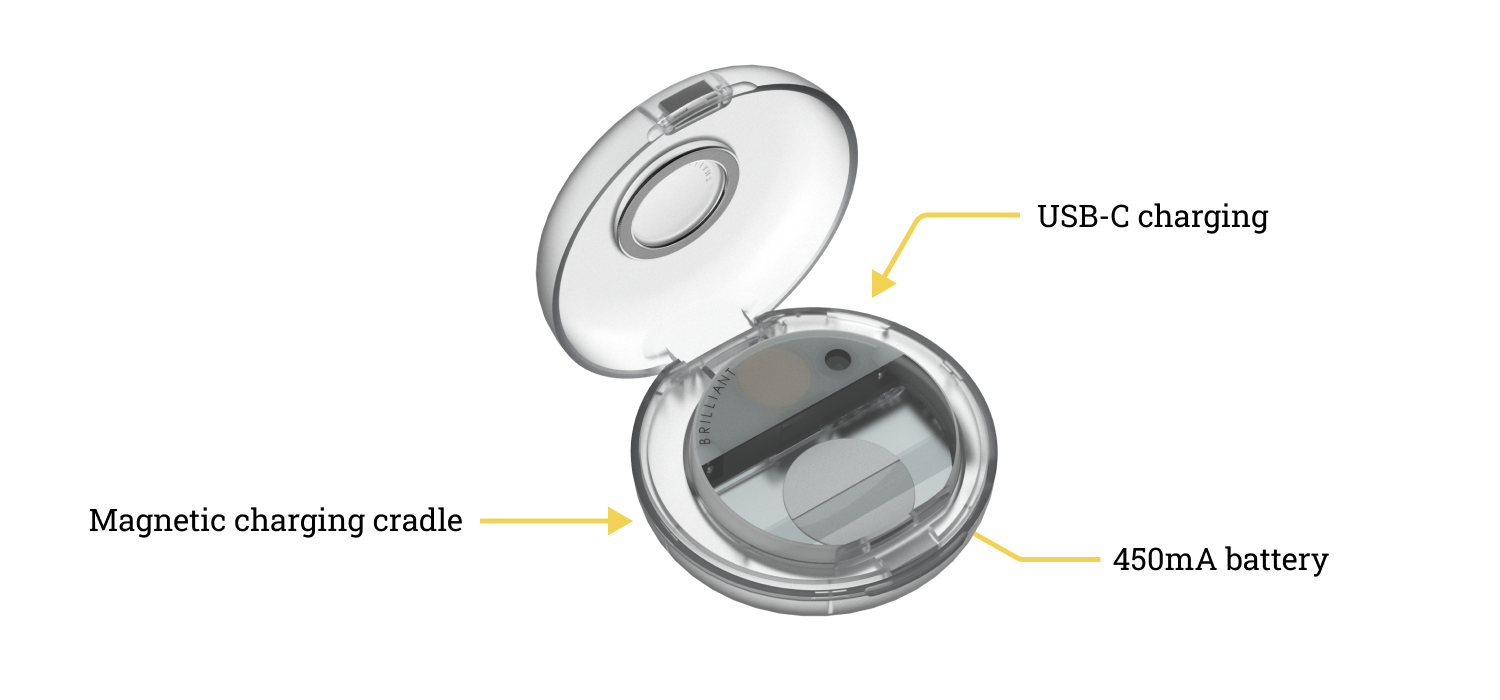
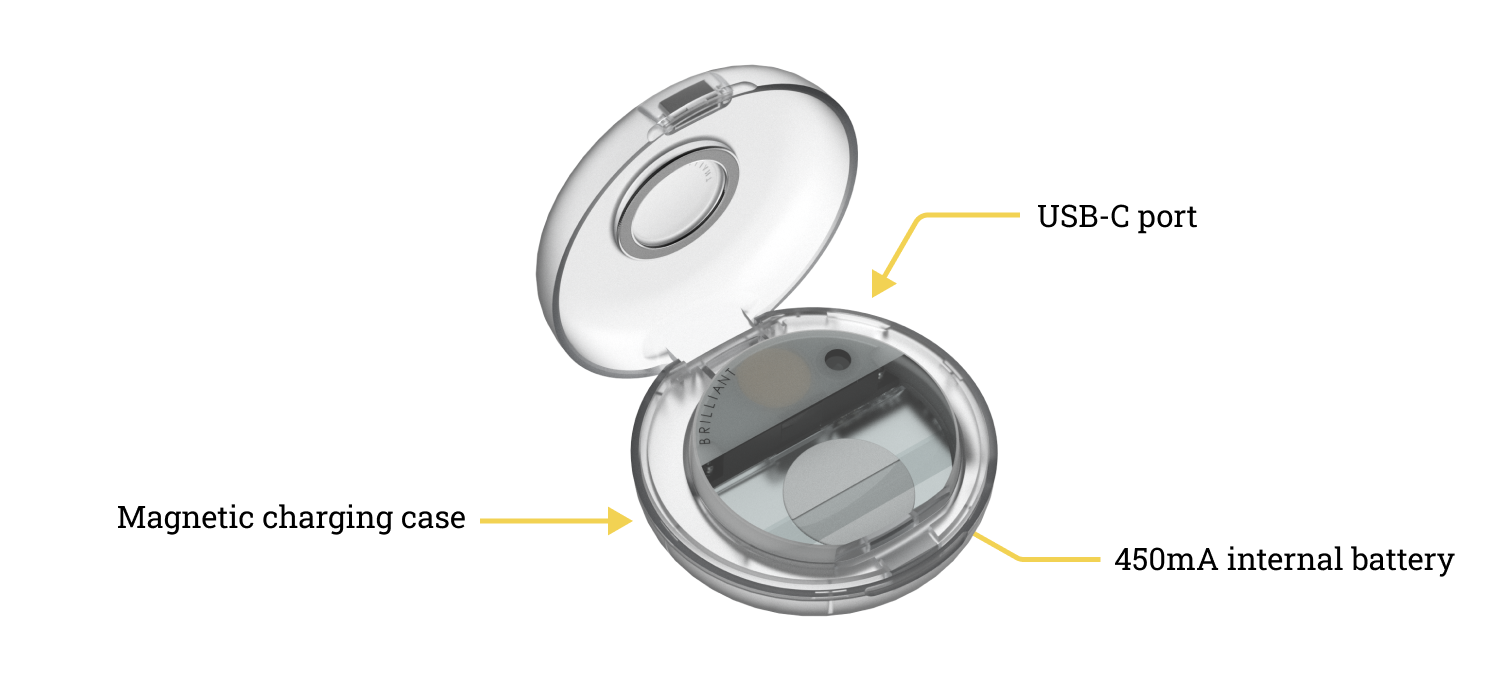
Checked copy and links for monocle page

Changed region(s): [[0.0613, 0.72, 0.3067, 0.78], [0.736, 0.78, 0.9813, 0.84], [0.736, 0.3, 0.8587, 0.33]]

diff --git a/monocle/monocle.md b/monocle/monocle.md
@@ -12,20 +12,19 @@ nav_order: 2
 
 ![Monocle exploded view](/monocle/images/monocle-exploded-view.png)
 
-Monocle is a tiny heads up display which simply clips onto your glasses. It's packed full of powerful hardware which is perfect for when you're on the go, and connects to your mobile phone over Bluetooth. It also contains a few handy sensors such as touch, camera and microphone, which will help you navigate your journey into the world of AR.
-
-This page describes the hardware design of Monocle, as well as how you can use it's features. If you wish to go deeper, the full open source schematics are linked [below](#schematics).
+Monocle is a tiny heads-up display which clips onto your existing eyewear. It's packed full of powerful hardware which is perfect for when you're on the go. It connects to your mobile phone over Bluetooth, and includes a few handy sensors such as touch buttons, camera and microphone. The included FPGA is perfect for computer vision, AI or graphics acceleration directly on the device. Monocle runs open source software and provides an easy way to get started using [MicroPython](/micropython/micropython). You can also write your own firmware from scratch using these docs as guidance.
 
 ## Key features:
 {: .no_toc }
 - 640x400 color OLED display
 - 20° FOV optical body
-- 5MP camera & microphone
+- 5MP camera
+- Microphone
 - FPGA based acceleration for ML/CV
 - Bluetooth 5.2
 - 70mAh internal battery
 - Touch buttons
-- Wireless MicroPython based OS
+- Full featured MicroPython based OS
 - Charging case with USB & 450mAh battery
 
 ## Example uses:
@@ -52,25 +51,25 @@ This diagram shows a general overview of the Monocle architecture.
 
 ## Bluetooth MCU
 
-The Bluetooth MCU used is a [Nordic nRF52832](https://infocenter.nordicsemi.com/pdf/nRF52832_PS_v1.8.pdf) with **512KB of Flash** memory, and **64KB of RAM**. It supports **Bluetooth 5.2**, up to 2Mb/s.
+The Bluetooth MCU serves as the main processor for Monocle. It handles the majority of control over the device, and is used for networking and scripting. The MCU used is a [Nordic nRF52832](https://infocenter.nordicsemi.com/pdf/nRF52832_PS_v1.8.pdf) with **512KB of Flash** memory, and **64KB of RAM**. It supports **Bluetooth 5.2**, up to 2Mb/s.
 
-By default, the nRF comes preloaded with our [MicroPython](/micropython/micropython) firmware, however you are able to deploy your own [custom firmware](#developing-for-the-bluetooth-mcu) if you wish to do so.
+By default, the nRF comes preloaded with our [MicroPython](/micropython/micropython) firmware, however you are able to deploy your own [custom firmware](#developing-custom-firmware) if you wish to do so.
 
 ### Updating firmware over-the-air
 
 Over the air updates can be performed via Nordic's nRFConnect software either on [Desktop](https://www.nordicsemi.com/Products/Development-tools/nrf-connect-for-desktop), or on Mobile ([iOS](https://apps.apple.com/se/app/nrf-connect-for-mobile/id1054362403)/[Android](https://www.google.com/url?sa=t&rct=j&q=&esrc=s&source=web&cd=&cad=rja&uact=8&ved=2ahUKEwjbtevyrf77AhUncPEDHfjiBSEQFnoECBIQAQ&url=https%3A%2F%2Fplay.google.com%2Fstore%2Fapps%2Fdetails%3Fid%3Dno.nordicsemi.android.mcp%26hl%3Den%26gl%3DUS&usg=AOvVaw26fnMv6YUhCDOx-ZZHre94)). nRFConnect requires a `.zip` DFU file to perform the update.
 
-**The latest MicroPython release for Monocle can be found on our [GitHub](https://github.com/Itsbrilliantlabs/monocle-micropython/releases) page.**
+**The latest MicroPython release for Monocle can be found on our [GitHub](https://github.com/Itsbrilliantlabs/monocle-micropython/releases) releases page.**
 
 ---
 
 ## FPGA
 
-the FPGA used is a [Gowin GW1N-LV9MG100C6/I5](https://www.mouser.se/datasheet/2/1033/GW1N_series_of_FPGA_Products_Data_Sheet-1830682.pdf). It contains **7k LUTs**, **468kb of block RAM**, as well as **608kb of Flash** memory which is perfect for storing the FPGA bitstream. The FPGA can also be booted from the external [8Mb SPI Flash IC](#flash) which is included onboard the Monocle.
+The FPGA is used for graphics acceleration, as well as image processing of the 5MP camera. It's perfect for computer vision and AI tasks which can make direct use of the camera and microphone as inputs. The FPGA IC used is a [Gowin GW1N-LV9MG100C6/I5](https://www.mouser.se/datasheet/2/1033/GW1N_series_of_FPGA_Products_Data_Sheet-1830682.pdf). It contains **7k LUTs**, **468kb of block RAM**, as well as **608kb of Flash** memory. An additional [8Mb SPI Flash IC](#flash) is also included in Monocle, and either flash space may be used for booting up the FPGA, or storing user data.
 
-By default, the FPGA comes pre-loaded our [Graphics & Camera Accelerator IP](https://github.com/Itsbrilliantlabs/monocle-fpga) and is driven by a custom MicroPython driver over SPI from the nRF52. It's a perfect starting point if you decide to [create your own IP](#developing-for-the-fpga) for applications such as AI inferencing, or computer vision.
+By default, the FPGA comes pre-loaded our [Graphics & Camera Accelerator IP](https://github.com/Itsbrilliantlabs/monocle-fpga) and can be accessed using MicroPython commands. Our IP is a perfect starting point if you wish to [create your own FPGA application](#developing-for-the-fpga).
 
-**The latest release for the FPGA IP can be updated via a [MicroPython command](/micropython/machine-fpga#update). It is also checked periodically if you are using the [Brilliant App](/mobile-app/mobile-app)**
+**The latest release for the FPGA IP can be updated via the Micropython [`fpga.update()`](/micropython/micropython#fpga--monocle-specific) command. It is also checked periodically if you are using the Brilliant App**
 
 To save power, the FPGA can be shutdown along with the camera and display when not needed. See the [power](#power) section for details. 
 
@@ -78,25 +77,23 @@ To save power, the FPGA can be shutdown along with the camera and display when n
 
 ## Memory
 
-Aside from the built-in memories of the Bluetooth MCU and the FPGA, Monocle contains three additional memory ICs. One for flash, and two for RAM. The RAM is accessible by the FPGA, and is great for storing frame-buffers, buffering camera data, or working data for AI algorithms. The Flash meanwhile, is great as a secondary source for loading FPGA bitstreams, logging data, and is accessible by both the nRF52, as well as the FPGA.
+Aside from the built-in memories of the Bluetooth MCU and the FPGA, Monocle contains three additional memory ICs. One for flash, and two for RAM. The RAM is accessible by the FPGA, and is great for storing display buffers, camera data, or working data for AI algorithms. The flash meanwhile, is great as a secondary source for loading FPGA bitstreams, logging data, and is accessible by both the Bluetooth MCU and FPGA.
 
 ### Flash
 
-The Flash device used is the [Winbond W25Q80EWUXIE](https://www.winbond.com/hq/support/documentation/levelOne.jsp?__locale=en&DocNo=DA00-W25Q80EW). It's an 8Mb serial Flash and is connected to the FPGA and nRF52 via an SPI bus. 
+The Flash IC used is the [Winbond W25Q80EWUXIE](https://www.winbond.com/hq/support/documentation/levelOne.jsp?__locale=en&DocNo=DA00-W25Q80EW). It's an 8Mb serial Flash and is connected to the FPGA and nRF52 via an SPI bus. 
 
 ### RAM
 
-The RAM devices used are the [AP Memory APS256XXN](https://www.apmemory.com/wp-content/uploads/APM_PSRAM_OPI_Xccela-APS256XXN-OBRx-v1.0-PKG.pdf). A total of 512Mb of memory is addressable, and can be accessed at up to 800Mb/s in DDR mode.
+The RAM ICs used are the [AP Memory APS256XXN](https://www.apmemory.com/wp-content/uploads/APM_PSRAM_OPI_Xccela-APS256XXN-OBRx-v1.0-PKG.pdf). A total of 512Mb of memory is addressable, and can be accessed at up to 800Mb/s in DDR mode.
 
 ---
 
 ## Display
 
-The display used inside Monocle is a Sony [ECX336CN](https://www.panelook.com/ECX336CN_Sony_0.23_OLED_overview_51733.html) OLED. It features **640x400 RGB pixels**, and is permanently bonded to the optical housing which reflects the image using a prism for the user to see. The result is a floating heads up display with a **20° field of view**. About the size of a table display at arms length.
+The display used in Monocle is a Sony [ECX336CN](https://www.panelook.com/ECX336CN_Sony_0.23_OLED_overview_51733.html) micro OLED. It features **640x400 RGB pixels**, and is optically bonded to the main housing which directs the image into the users eye. The result is a transparent floating display with a **20° field of view**. About the size of a table display at arms length.
 
 ![Diagram of the Monocle display light path](/monocle/images/monocle-display-fov.png)
-
-Much of the operation and configuration is kept private by Sony, however we include a working configuration within our [FPGA code](https://github.com/Itsbrilliantlabs/monocle-fpga) which is used to drive the display.
 
 To save power, the display can be shutdown along with the camera and fpga when not needed. See the [power](#power) section for details.
 
@@ -104,9 +101,7 @@ To save power, the display can be shutdown along with the camera and fpga when n
 
 ## Camera
 
-The front facing camera on Monocle is the [Omnivision OV5640](https://cdn.sparkfun.com/datasheets/Sensors/LightImaging/OV5640_datasheet.pdf). It is a 5MP color sensor and features numerous convince features such as automatic exposure control, and automatic white balance.
-
-The sensor is wired directly to the FPGA via a fast MIPI CSI-2 interface, so can be used for computer vision applications, as well as machine learning applications.
+The front facing camera on Monocle is an [Omnivision OV5640](https://cdn.sparkfun.com/datasheets/Sensors/LightImaging/OV5640_datasheet.pdf). It is a 5MP color sensor and features numerous convince features such as automatic exposure control, and automatic white balance. It is connected directly to the FPGA over a high speed MIPI CSI-2 interface. 
 
 ![Annotation of the Monocle camera](/monocle/images/monocle-camera.png)
 
@@ -116,7 +111,7 @@ To save power, the camera can be shutdown along with the fpga and display when n
 
 ## Touch interface
 
-Monocle features two capacitive touch buttons which are fed into an [Azoteq IQS620A](https://www.azoteq.com/images/stories/pdf/iqs620_datasheet.pdf) touch controller. Each button can detect close proximity as well as touch events. With further software processing, double taps, long presses and other gestures can be detected. The touch controller is connected to the Blueooth MCU via I<sup>2</sup>C and an interrupt line to flag pending touch events.
+Monocle features two capacitive touch buttons which are fed into an [Azoteq IQS620A](https://www.azoteq.com/images/stories/pdf/iqs620_datasheet.pdf) touch controller. Each button can detect close proximity as well as touch events. With further software processing, double taps, long presses and other gestures can be detected. The touch controller is connected to the Blueooth MCU via I<sup>2</sup>C and an interrupt line to flag pending touch events. Our MicroPython firmware contains a built in library to access various types of touch events, and trigger actions when pressed.
 
 ![Annotation of the Monocle touch interface](/monocle/images/monocle-touch-interface.png)
 
@@ -124,9 +119,9 @@ Monocle features two capacitive touch buttons which are fed into an [Azoteq IQS6
 
 ## Microphone
 
-A [TDK/InvenSense ICS-41351](http://invensense.wpenginepowered.com/wp-content/uploads/2020/07/DS-000157-ICS-41351-v1.4.pdf) microphone is directly  connected to the FPGA, and can be used to record audio, or in voice recognition algorithms.
+A [TDK/InvenSense ICS-41351](http://invensense.wpenginepowered.com/wp-content/uploads/2020/07/DS-000157-ICS-41351-v1.4.pdf) microphone is directly connected to the FPGA, and can be used to record audio, or for voice recognition algorithms.
 
-The audio port is located on the back of the monocle, so is perfect for receiving the wearers voice, while avoiding background sounds.
+The audio port is located on the back side of Monocle, so is perfect for receiving the wearers voice, while avoiding excessive background sounds.
 
 ![Annotation of the Monocle microphone](/monocle/images/monocle-microphone.png)
 
@@ -144,23 +139,23 @@ Alternatively, the analog supplies of the camera (2.7V) and display (10V) may be
 
 ### Regulation
 
-The [Maxim MAX77654 PMIC](https://www.analog.com/media/en/technical-documentation/data-sheets/max77654.pdf) is an efficient and low power management controller. Each rail is highly configurable and can be tuned for efficiency, stability or noise performance. Each rail can additionally be current limited to avoid overloading the battery.
+The [Maxim MAX77654 PMIC](https://www.analog.com/media/en/technical-documentation/data-sheets/max77654.pdf) is an efficient and low power management controller. Each rail is configurable and can be tuned for efficiency, stability or noise performance. Each rail can additionally be current limited to avoid overloading the battery.
 
-The PMIC communicates solely with the Bluetooth MCU over I<sup>2</sub>C.
+The PMIC communicates solely with the Bluetooth MCU over I<sup>2</sup>C.
 
 {: .warning }
-> It's possible to damage the Monocle hardware by misconfiguring the power supply controller, and setting the voltages too high. We recommend that you avoid diverging from the settings found in the Brilliant provided firmware, to prevent damage to your Monocle.
+> It's possible to damage the Monocle hardware by setting the voltages levels too high. We recommend that you avoid diverging from the settings found in the Brilliant provided firmware, to prevent damaging your Monocle.
 
 ### Battery charging
 
 The PMIC also includes an integrated battery charger. Charge regulation voltage and current can be configured, as well as various timings. The battery level, and charge current can also be read via an analog pin provided from the PMIC to the Bluetooth MCU.
 
 {: .warning }
-> It's possible to damage the Monocle battery by misconfiguring the charge voltage and current. We recommend that you avoid diverging from the settings found in the Brilliant provided firmware, to prevent fire or serious damage to the Monocle battery.
+> It's possible to damage the Monocle battery by misconfiguring the charge voltage or current. We recommend that you avoid diverging from the settings found in the Brilliant provided firmware and to prevent fire or damage to the Monocle battery.
 
 ### LEDs
 
-The PMIC provides two LEDs (green and red) connected under GPIOs that are accessible from the PMICs registers.
+Monocle contains two LEDs (green and red) connected to GPIOs on the PMIC. They are easily accesible via PMIC registers from the Bluetooth MCU.
 
 ![Annotation of the Monocle LEDs](/monocle/images/monocle-leds.png)
 
@@ -168,7 +163,7 @@ The PMIC provides two LEDs (green and red) connected under GPIOs that are access
 
 ## Charging case
 
-Monocle ships with a charging/storage case which can charge and protect your Monocle. When inserted into the case, Monocle will begin to recharge from the case battery. The case battery can provide several full charges of the Monocle and itself be recharged from a standard 500mA USB Type-C plug.
+Monocle is provided with a compact charging case for taking on the go. When inserted into the case, Monocle will begin to recharge from the charging case battery. The case battery can provide several full charges of the Monocle and be itself recharged from a standard 500mA USB Type-C jack.
 
 ![Annotation of the Monocle charging case](/monocle/images/monocle-charging-case.png)
 
@@ -183,24 +178,24 @@ When placed into the charger, the PMIC, and thus the Bluetooth MCU will detect t
 {: .warning }
 > It's possible to damage the Monocle hardware by misconfiguring the power supply controller. We recommend that you avoid changing any of those settings as we've already fine tuned them for you.
 
-A good place to start writing your custom nRF applications is the [Monocle MicroPython repository](https://github.com/Itsbrilliantlabs/monocle-micropython). All the hardware drivers can be found here and you can follow the `main()` flow to understand how the firmware is built.
+A good place to start writing your custom nRF applications is the [Monocle MicroPython repository](https://github.com/Itsbrilliantlabs/monocle-micropython). All the hardware drivers can be found here and you can follow the `main()` flow to understand how Monocle is booted.
 
-For compiling projects, you will need to download the latest [ARM GCC compiler](https://developer.arm.com/downloads/-/gnu-rm). For Bluetooth connectivity, you will also need to download a compatible Bluetooth stack, aka the [Softdevice](https://www.nordicsemi.com/Products/Development-software/nrf5-sdk/download). The Softdevice is a proprietary library from Nordic, and is not directly included within the Monocle MicroPython repository. You will need to download it manually for your application to build. The MicroPython codebase calls the Softdevice for all Bluetooth related functions, and is well documented within the code.
+For compiling projects, you will need to download the latest [ARM GCC compiler](https://developer.arm.com/downloads/-/gnu-rm). For Bluetooth connectivity, you will also need to download a compatible Bluetooth stack from Nordic (aka the [Softdevice](https://www.nordicsemi.com/Products/Development-software/nrf5-sdk/download)). This is a proprietary library from Nordic, so is not directly included within the Monocle MicroPython repository, however is free to download and use.
 
 ### Creating custom OTA (over-the-air) update packages
 
 {: .warning }
-> It's recommended that your application is well tested and can reliably return back into OTA mode after programming. If you flash a broken application, you'll have to dismantle your Monocle and manually flash it using a programmer.
+> It's recommended that your application is well tested and can reliably return back into OTA mode after programming. If you flash a bad application, you'll have to dismantle your Monocle and manually reprogram it using a programmer.
 
-To generate the `.zip` file, you'll need to use the [nRP Util](https://www.nordicsemi.com/Products/Development-tools/nrf-util) command line application. You can read how to generate files [here](https://infocenter.nordicsemi.com/index.jsp?topic=%2Fug_nrfutils%2FUG%2Fnrfutils%2Fnrfutil_intro.html), however you will need to use the [Brilliant OTA private key](https://github.com/Itsbrilliantlabs/monocle-micropython/blob/main/bootloader/published_privkey.pem) in order to generate a compatible image. If you wish to change this key, you can create a new keypair, and add the public key within your [bootloader code](https://github.com/Itsbrilliantlabs/monocle-micropython/blob/main/bootloader/dfu_public_key.c). Subsequent updates will then require your new private key. **Note: without the key, it's not possible to do over-the-air updates, and you will need to revert to manual programming.**
+To generate the `.zip` file, you'll need to use the [nRF Util](https://www.nordicsemi.com/Products/Development-tools/nrf-util) command line application. You can read how to generate files [here](https://infocenter.nordicsemi.com/index.jsp?topic=%2Fug_nrfutils%2FUG%2Fnrfutils%2Fnrfutil_intro.html). You will need to use the [Brilliant OTA key](https://github.com/Itsbrilliantlabs/monocle-micropython/blob/main/bootloader/published_privkey.pem) in order to generate a compatible image. If you wish to change this key, you can create a new keypair, and add the public key within your [bootloader code](https://github.com/Itsbrilliantlabs/monocle-micropython/blob/main/bootloader/dfu_public_key.c). Subsequent updates will then require your new private key. **Note: without the key, it's not possible to do over-the-air updates, and you will need to revert to manual programming.**
 
 ### Developing for the FPGA
 
-[GoWin's EDA](https://www.gowinsemi.com/en/support/download_eda/) can be used to develop RTL for the FPGA. You can request a free licence [here](https://www.gowinsemi.com/en/support/license/).
+[GoWin's EDA](https://www.gowinsemi.com/en/support/download_eda/) can be used to develop applications for the FPGA. You can request a free licence [here](https://www.gowinsemi.com/en/support/license/).
 
 We recommend having a look at our [Graphics & Camera Accelerator IP](https://github.com/Itsbrilliantlabs/monocle-fpga) to see how an FPGA project is set up and built.
 
-Generally it's convenient to use the [MicroPython FPGA module](/micropython/machine-fpga) to wirelessly program the FPGA. However this method does not allow for JTAG debugging, and can be a slow process for iterative development. It's therefore also possible to program the FPGA manually using a programmer. 
+Generally it's convenient to use the [MicroPython FPGA module](/micropython/micropython/#fpga--monocle-specific) to wirelessly program the FPGA. However this method does not allow for JTAG debugging, and can be a slow process for iterative development. It's therefore also possible to program the FPGA manually using a programmer. 
 
 ### Manually programming
 
@@ -217,9 +212,9 @@ Generally it's convenient to use the [MicroPython FPGA module](/micropython/mach
 
     ![Enabling Monocle ship mode](/monocle/images/monocle-ship-mode.png)
 
-1. Your device should now be off, but **note the battery pins will still be live**. If you remove any components, **take note of which way they were inserted into the connector**. Re-inserting the OLED cable or the camera module backwards will permanently damage them.
+1. Your device should now be off, but **note the battery pins will still be live**. If you remove any components, **take note of which way they were inserted into the connectors**. Re-inserting the OLED cable or the camera module backwards will permanently damage them.
 
-1. The programming pins for the Bluetooth MCU are shown below. It's recommended to use a J-Link compatible programmer such as the [nRF52DK](https://www.nordicsemi.com/Products/Development-hardware/nrf52-dk) as Nordic provide a helper utility which is correctly aware of important settings and flags when reprogramming. However other OpenOCD based SWD programmers may work with some careful tweaking.
+1. The programming pins for the Bluetooth MCU are shown below. It's recommended to use a J-Link compatible programmer such as the [nRF52 DK](https://www.nordicsemi.com/Products/Development-hardware/nrf52-dk). Nordic provide a helper utility which is correctly aware of important settings and flags when reprogramming. However other OpenOCD based SWD programmers may work with some careful tweaking.
 
     ![Monocle main board FPGA JTAG diagram](/monocle/images/monocle-swd.png)
 
@@ -227,7 +222,7 @@ Generally it's convenient to use the [MicroPython FPGA module](/micropython/mach
 
     ![Monocle main board FPGA JTAG diagram](/monocle/images/monocle-jtag.png)
 
-1. To re-power the device. Apply 5V to the charging pads.
+1. To power the device, reassemble and apply 5V to the charging pads.
 
     ![Monocle charging pads](/monocle/images/monocle-charging-pads.png)
 
@@ -247,9 +242,9 @@ Generally it's convenient to use the [MicroPython FPGA module](/micropython/mach
 
 ## Schematics
 
-[Download the PDF schematics for Monocle](/monocle/monocle-schematics.pdf)
+[Download the PDF schematics for Monocle here](/monocle/monocle-schematics.pdf)
 
-[Download the PDF schematics for the Monocle charging case](/monocle/monocle-cc-schematics.pdf)
+[Download the PDF schematics for the Monocle charging case here](/monocle/monocle-cc-schematics.pdf)
 
 ---
 
@@ -273,11 +268,10 @@ Typical and absolute device characteristics are shown below. To get the best lif
 
 |                           | Min    | Typ | Max   |
 |:--------------------------|:------:|:---:|:-----:|
-| Monocle charge current    | -      | -   | 77mA  |
-| Case USB charge current   | -      | -   | 500mA |
+| Monocle charging current  | -      | -   | 77mA  |
+| Case USB charging current | -      | -   | 500mA |
 | Bluetooth radio power     | -20dBm | -   | 4dBm  |
 | Bluetooth sensitivity     | -96dBm | -   | -     |
-|  |     |     |     |
 
 ### Maximum ratings
 
@@ -287,7 +281,6 @@ Typical and absolute device characteristics are shown below. To get the best lif
 | Monocle charging voltage  | -0.3V | 5.1V | 28V  |
 | Operating temperature     | 0°C   | -    | 45°C |
 | Storage temperature       | -20°C | -    | 60°C |
-|  |     |     |     |
 
 ---
 
@@ -295,15 +288,15 @@ Typical and absolute device characteristics are shown below. To get the best lif
 
 ### Safety
 
-Monocle can obscure your vision and should not be used while driving or operating dangerous equipment. Additionally long periods of use may cause eye strain, headaches and motion sickness. Monocle can also display bright flashing images so may not be suitable for those susceptible to epileptic effects.
+Monocle can obscure your vision and should not be used while driving or operating dangerous equipment. Additionally long periods of use may cause eye strain, headaches and motion sickness. Monocle can also display bright flashing images so may not be suitable for those susceptible to light sensitivity.
 
 ### Critical applications
 
-Monocle is intended for consumer and R&D applications. It is not verified for use where performance and accuracy would be critical to human health, safety or mission critical infrastructure.
+Monocle is intended for consumer and R&D applications. It is not verified for use where performance and accuracy would be critical to human health, safety or mission critical use.
 
 ### Lithium batteries
 
-Lithium batteries can be dangerous if mishandled. Do not expose Monocle, or related hardware to excess temperatures, fire or liquids. Do not try to remove the battery as the wires can become shorted and result in the battery overheating or catching fire. Once the product reaches the end of it's life, dispose it safely according to your local regulations, such as e-waste collection points where any volatile components can be properly contained and handled.
+Lithium batteries can be dangerous if mishandled. Do not expose Monocle, or any related hardware to excess temperatures, fire or liquids. Do not try to remove the battery as the wires can become shorted and result in the battery overheating or fire risks. Once the product reaches the end of it's life, dispose it safely according to your local regulations, such as e-waste collection points where any volatile components can be properly contained and handled.
 
 ### Limitation of liability
 

diff --git a/micropython/micropython.md b/micropython/micropython.md
@@ -291,5 +291,9 @@ The first payload includes metadata about the file such as filename (with a rele
 ### Firmware updates
 {: .no_toc }
 
+Details coming soon.
+
 ### FPGA bitstream updates
 {: .no_toc }
+
+Details coming soon.
